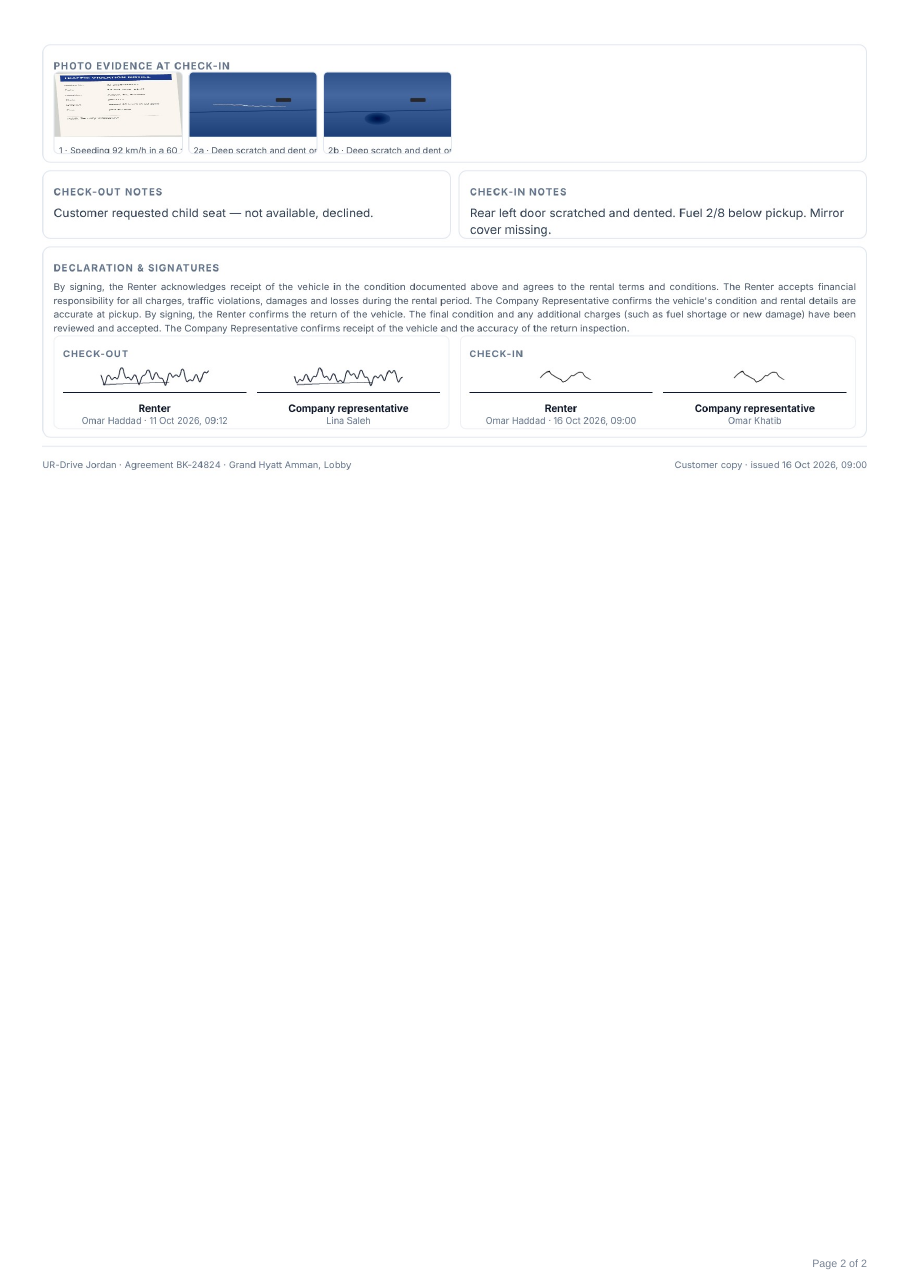
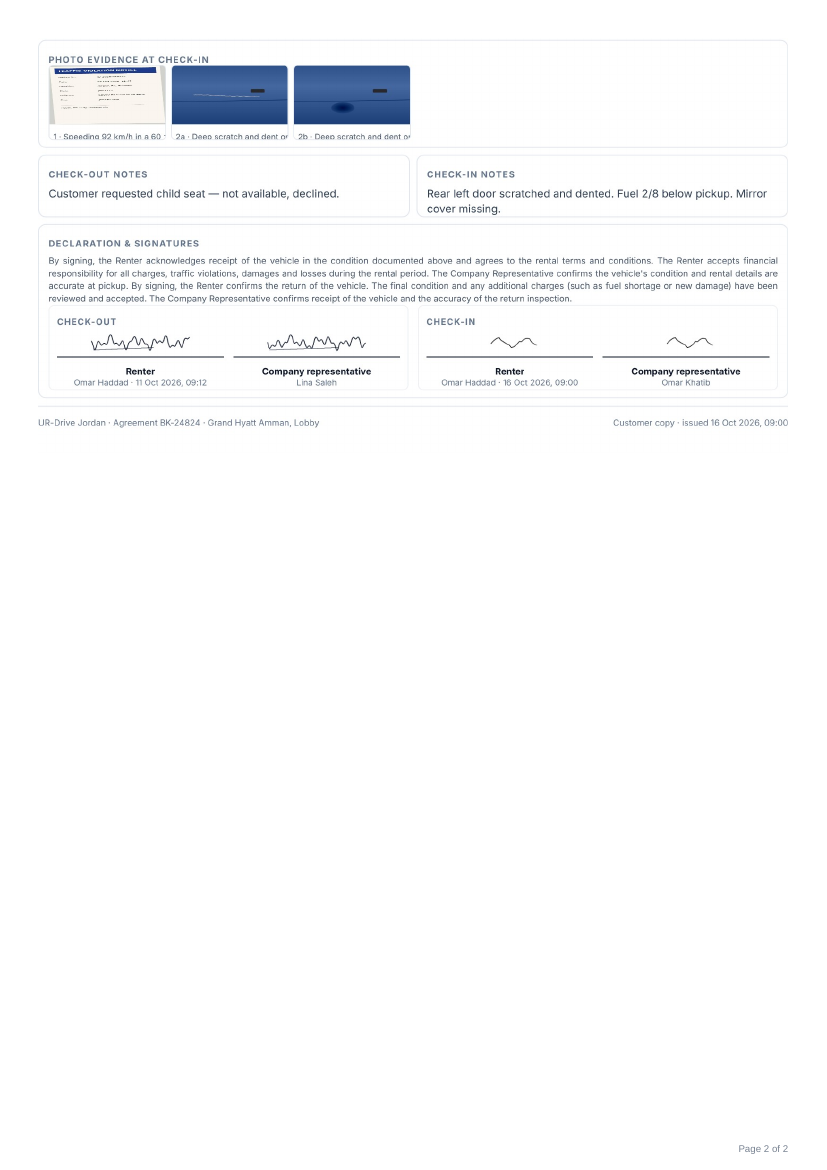
Send a rental termination statement when the car is returned
- New services/terminationDoc.ts: "Rental Termination — agreement closure
  statement" (TRM-<booking>). Confirms the agreement ended at the return time
  and place, with pick-up/return/days/distance, the final statement of account
  (rental, extras, extensions, late fee, payment), charges at return and their
  settlement, vehicle condition at return, the security deposit position,
  what is still payable (or "Nothing further is due"), a note on traffic fines
  from the rental period, and the check-in signatures. Stamped TERMINATED and
  SETTLED or BALANCE DUE.
- The check-in email ("Rental agreement closed") now attaches the final
  agreement, the termination statement and, if any, the claim or invoice.
  The success screen and closed agreements offer a Termination download.
- Pick-up agreement fits on one page: compact check-out condition grid,
  notes beside the charges, and an "At return" panel instead of empty
  check-in signature lines.

Claude-Session: https://claude.ai/code/session_01SZbkRoLvbcfyYadGhzb7Rr

diff --git a/services/terminationDoc.ts b/services/terminationDoc.ts
@@ -1,0 +1,186 @@
+import { CompanyDetails, Reservation } from '../types';
+import { CHARGE_KIND_LABEL, PAYMENT_METHOD_LABEL, chargesTotal, formatMoney } from './returnChargesDoc';
+
+export interface TerminationDocInput {
+  reservation: Reservation;
+  company: CompanyDetails;
+  logo?: string;
+  rentalDays: number;
+  baseRentalFee: number;
+  checklistItems: string[];
+  locationName?: string;
+  prepaid?: boolean;
+}
+
+const esc = (v: unknown) => String(v ?? '').replace(/&/g, '&amp;').replace(/</g, '&lt;').replace(/>/g, '&gt;').replace(/"/g, '&quot;');
+const usd = (n: number) => esc(formatMoney(n, 'USD'));
+// Check-in/out times are stored as display strings such as "October 16, 2026 at 09:00 AM".
+const parse = (s?: string) => { if (!s) return null; const d = new Date(s.replace(' at ', ' ')); return Number.isNaN(d.getTime()) ? null : d; };
+const when = (d: Date | null) => (d ? d.toLocaleString('en-GB', { day: '2-digit', month: 'short', year: 'numeric', hour: '2-digit', minute: '2-digit' }) : '—');
+const day = (d: Date | null) => (d ? d.toLocaleDateString('en-GB', { day: '2-digit', month: 'short', year: 'numeric' }) : '—');
+
+export const terminationNumber = (bookingId: string) => `TRM-${(bookingId || 'X').replace(/[^A-Za-z0-9]/g, '').toUpperCase()}`;
+export const terminationFileName = (bookingId: string) => `Rental-Termination-${(bookingId || 'X').replace(/[^A-Za-z0-9-]/g, '')}.pdf`;
+
+/**
+ * Rental termination statement: the customer's confirmation that the agreement has ended,
+ * with the final statement of account, the security deposit position and anything still due.
+ */
+export function buildTerminationHtml(i: TerminationDocInput): string {
+  const r = i.reservation;
+  const returnedAt = parse(r.dropOffDateTime) || parse(r.agreementEmails?.find(e => e.kind === 'checkin')?.sentAt) || new Date();
+  const pickedUpAt = parse(r.pickupDateTime) || parse(r.startDate);
+  const dueAt = parse(r.endDate);
+  const lateHours = dueAt ? (returnedAt.getTime() - dueAt.getTime()) / 3600000 : 0;
+  const kmDriven = r.dropOffKmIn != null && r.pickupKmOut != null && r.dropOffKmIn >= r.pickupKmOut ? r.dropOffKmIn - r.pickupKmOut : null;
+  const fuelDiff = r.dropOffFuelLevel != null && r.pickupFuelLevel != null ? r.dropOffFuelLevel - r.pickupFuelLevel : null;
+  const missing = i.checklistItems.filter(x => r.pickupChecklist?.[x] && !r.dropOffChecklist?.[x]);
+  const newDamage = (r.dropOffDamageMarkers || []).length;
+
+  const extras = (r.extras || []).map(e => ({ label: e.name, amount: e.isComplementary ? 0 : e.dailyPrice * i.rentalDays, free: e.isComplementary }));
+  const extensions = r.extensionHistory || [];
+  const late = r.lateReturnFee && !r.lateReturnFee.isWaived && r.lateReturnFee.status !== 'WAIVED' ? r.lateReturnFee : undefined;
+  const rentalTotal = i.baseRentalFee + extras.reduce((s, e) => s + e.amount, 0) + (late && late.status === 'APPLIED' ? late.amount : 0);
+  const rentalDue = (r.unpaidExtensionAmount || 0) + (late && late.status === 'PENDING' ? late.amount : 0);
+  const rc = r.returnCharges && r.returnCharges.items.length ? r.returnCharges : undefined;
+  const rcTotal = rc ? chargesTotal(rc.items) : 0;
+  const rcDue = rc && rc.settlement === 'claim' ? rcTotal : 0;
+  const settled = rentalDue <= 0 && rcDue <= 0;
+  const deposit = r.securityDeposit || 0;
+  const depositLine = deposit <= 0
+    ? 'No security deposit was held for this rental.'
+    : rcDue > 0
+      ? `The security deposit of ${usd(deposit)} is held until claim ${esc(rc!.documentNumber || '')} is settled.`
+      : rc && rc.paymentMethod === 'deposit'
+        ? `Return charges were deducted from the security deposit of ${usd(deposit)}; any remaining balance is released.`
+        : `The security deposit of ${usd(deposit)} is released in full.`;
+
+  const row = (label: string, value: string, cls = '') => `<tr class="${cls}"><td>${label}</td><td class="num">${value}</td></tr>`;
+
+  return `<!DOCTYPE html><html><head><meta charset="utf-8"><title>Rental Termination ${esc(r.bookingId)}</title>
+<style>
+  @page { size: A4; margin: 12mm; }
+  * { box-sizing: border-box; margin: 0; padding: 0; }
+  body { font-family: 'Segoe UI', Inter, Arial, sans-serif; color: #0f172a; font-size: 9pt; line-height: 1.45; padding: 4px; }
+  .accent { height: 4px; background: linear-gradient(90deg, #0f172a, #334155 60%, #f97316); border-radius: 3px; margin-bottom: 14px; }
+  .top { display: flex; justify-content: space-between; align-items: flex-start; gap: 20px; }
+  .top img { height: 28px; }
+  .co { font-size: 7.6pt; color: #475569; margin-top: 4px; line-height: 1.45; }
+  .doc { text-align: right; }
+  .doc h1 { font-size: 19pt; letter-spacing: -0.02em; line-height: 1.05; }
+  .doc .sub { font-size: 7.5pt; text-transform: uppercase; letter-spacing: .14em; color: #64748b; margin-top: 3px; }
+  .doc .no { margin-top: 6px; font-size: 8.5pt; } .doc .no b { font-family: Consolas, monospace; }
+  .stamps { margin-top: 7px; display: flex; gap: 6px; justify-content: flex-end; }
+  .stamp { display: inline-block; padding: 3px 10px; border-radius: 6px; font-size: 8pt; font-weight: 800; letter-spacing: .12em; border: 2px solid; }
+  .stamp.term { color: #0f172a; border-color: #0f172a; }
+  .stamp.ok { color: #047857; border-color: #047857; background: #ecfdf5; }
+  .stamp.due { color: #b45309; border-color: #b45309; background: #fffbeb; }
+  .lead { margin-top: 16px; padding: 12px 14px; border-radius: 10px; background: #f8fafc; border: 1px solid #e2e8f0; font-size: 9.6pt; line-height: 1.6; }
+  .lead b { color: #0f172a; }
+  .facts { display: grid; grid-template-columns: repeat(4, 1fr); gap: 0; margin-top: 10px; border: 1px solid #e2e8f0; border-radius: 10px; overflow: hidden; }
+  .facts div { padding: 8px 11px; border-right: 1px solid #e2e8f0; }
+  .facts div:last-child { border-right: 0; }
+  .facts span { display: block; font-size: 6.8pt; text-transform: uppercase; letter-spacing: .1em; color: #64748b; font-weight: 700; }
+  .facts b { font-size: 9.5pt; }
+  .g2 { display: grid; grid-template-columns: 1.15fr 1fr; gap: 10px; margin-top: 10px; align-items: start; }
+  .card { border: 1px solid #e2e8f0; border-radius: 10px; padding: 9px 12px; }
+  h2 { font-size: 7.2pt; text-transform: uppercase; letter-spacing: .1em; color: #64748b; margin-bottom: 6px; font-weight: 700; }
+  table { width: 100%; border-collapse: separate; border-spacing: 0; }
+  td { padding: 4px 0; border-bottom: 1px solid #f1f5f9; vertical-align: top; }
+  td.num { text-align: right; white-space: nowrap; font-variant-numeric: tabular-nums; font-weight: 600; padding-left: 10px; }
+  tr.sub td { color: #64748b; font-size: 8pt; }
+  tr.tot td { border-top: 1.5px solid #0f172a; border-bottom: 0; font-weight: 800; font-size: 10pt; padding-top: 6px; }
+  tr.due td { color: #b45309; font-weight: 700; }
+  tr.ok td { color: #047857; font-weight: 700; }
+  .kv { display: flex; justify-content: space-between; gap: 10px; padding: 3px 0; border-bottom: 1px solid #f1f5f9; }
+  .kv:last-child { border-bottom: 0; }
+  .kv span:first-child { color: #64748b; } .kv span:last-child { font-weight: 600; text-align: right; }
+  .bad { color: #b91c1c !important; } .good { color: #047857 !important; }
+  .balance { margin-top: 10px; display: flex; align-items: center; justify-content: space-between; gap: 16px; padding: 12px 16px; border-radius: 10px; color: #fff; background: ${settled ? '#065f46' : '#92400e'}; }
+  .balance .l { font-size: 7.2pt; text-transform: uppercase; letter-spacing: .12em; opacity: .8; }
+  .balance .t { font-size: 11pt; font-weight: 700; margin-top: 2px; }
+  .balance .v { font-size: 17pt; font-weight: 800; text-align: right; white-space: nowrap; }
+  .notes { margin-top: 10px; display: grid; grid-template-columns: 1fr 1fr; gap: 10px; }
+  .notes p { font-size: 8pt; color: #334155; }
+  .sig { display: grid; grid-template-columns: 1fr 1fr; gap: 40px; margin-top: 12px; }
+  .si { height: 40px; display: flex; align-items: flex-end; }
+  .si img { max-height: 40px; max-width: 70%; }
+  .sl { border-top: 1px solid #0f172a; padding-top: 3px; font-size: 7.8pt; font-weight: 700; }
+  .sm { font-size: 7pt; color: #64748b; }
+  .foot { margin-top: 14px; padding-top: 6px; border-top: 1px solid #e2e8f0; display: flex; justify-content: space-between; font-size: 7pt; color: #64748b; }
+</style></head><body>
+  <div class="accent"></div>
+  <div class="top">
+    <div>${i.logo ? `<img src="${i.logo}" alt="">` : `<b style="font-size:13pt">${esc(i.company.name)}</b>`}
+      <div class="co"><b style="color:#0f172a">${esc(i.company.name)}</b>${i.company.subName ? ' · ' + esc(i.company.subName) : ''}<br>${esc(i.company.address)}<br>Tel ${esc(i.company.phone)} · ${esc(i.company.email)}${i.company.taxNumber ? ' · Tax No. ' + esc(i.company.taxNumber) : ''}</div>
+    </div>
+    <div class="doc">
+      <h1>Rental Termination</h1>
+      <div class="sub">Agreement closure statement</div>
+      <div class="no">No. <b>${esc(terminationNumber(r.bookingId))}</b> · Agreement <b>${esc(r.bookingId)}</b></div>
+      <div class="stamps"><span class="stamp term">TERMINATED</span><span class="stamp ${settled ? 'ok' : 'due'}">${settled ? 'SETTLED' : 'BALANCE DUE'}</span></div>
+    </div>
+  </div>
+
+  <div class="lead">This statement confirms that rental agreement <b>${esc(r.bookingId)}</b> between <b>${esc(i.company.name)}</b> and <b>${esc(r.personName)}</b>
+    for the <b>${esc(r.carModel || 'vehicle')}</b>${r.licensePlate ? `, plate <b>${esc(r.licensePlate)}</b>` : ''}, was <b>terminated on ${when(returnedAt)}</b>
+    ${i.locationName || r.locationName ? `at ${esc(i.locationName || r.locationName)}` : ''} when the vehicle and its keys were returned and inspected.
+    ${settled ? 'All amounts under the agreement have been settled.' : 'The amounts shown as due below remain payable.'}</div>
+
+  <div class="facts">
+    <div><span>Picked up</span><b>${when(pickedUpAt)}</b></div>
+    <div><span>Returned</span><b>${when(returnedAt)}</b></div>
+    <div><span>Rental days</span><b>${i.rentalDays}${lateHours > 2 ? ` <small class="bad">· ${lateHours.toFixed(1)} h late</small>` : ''}</b></div>
+    <div><span>Distance</span><b>${kmDriven != null ? kmDriven.toLocaleString('en-US') + ' km' : '—'}</b></div>
+  </div>
+
+  <div class="g2">
+    <div class="card"><h2>Final statement of account</h2>
+      <table>
+        ${row(`Rental · ${i.rentalDays} day${i.rentalDays === 1 ? '' : 's'}`, usd(i.baseRentalFee))}
+        ${extras.map(e => row(esc(e.label), e.free ? 'Included' : usd(e.amount))).join('')}
+        ${extensions.map(x => row(`Extension · +${x.days} day${x.days === 1 ? '' : 's'} (${x.paymentMethod === 'payNow' ? 'paid' : 'pay on return'})`, 'incl.', 'sub')).join('')}
+        ${late ? row(`Late return · ${late.hoursLate} h${late.status === 'PENDING' ? ' (pending)' : ''}`, usd(late.amount)) : ''}
+        ${row('Rental total', usd(rentalTotal), 'tot')}
+        ${row(i.prepaid ? `Prepaid via ${esc(r.source || 'partner')}` : r.authNumber ? `Paid${r.authNumber ? ` · auth ${esc(r.authNumber)}` : ''}` : 'Paid at the counter', i.prepaid || r.authNumber ? '✓' : '—', 'sub')}
+        ${rentalDue > 0 ? row('Rental balance still due', usd(rentalDue), 'due') : row('Rental balance', usd(0), 'ok')}
+      </table>
+      ${rc ? `<h2 style="margin-top:10px">Charges at return · ${esc(rc.documentNumber || '')}</h2>
+      <table>
+        ${rc.items.map(it => row(`${esc(CHARGE_KIND_LABEL[it.kind])} — ${esc(it.description)}`, esc(formatMoney(it.amount, rc.currency)))).join('')}
+        ${row('Charges total', esc(formatMoney(rcTotal, rc.currency)), 'tot')}
+        ${rc.settlement === 'paid'
+          ? row(`Paid${rc.paymentMethod ? ' by ' + esc(PAYMENT_METHOD_LABEL[rc.paymentMethod].toLowerCase()) : ''}${rc.paymentReference ? ` · ${esc(rc.paymentReference)}` : ''}`, esc(formatMoney(0, rc.currency)), 'ok')
+          : row(`Due${rc.dueDate ? ' by ' + day(new Date(rc.dueDate + 'T12:00:00')) : ''} — claim ${esc(rc.documentNumber || '')}`, esc(formatMoney(rcTotal, rc.currency)), 'due')}
+      </table>` : ''}
+    </div>
+    <div>
+      <div class="card"><h2>Vehicle at return</h2>
+        <div class="kv"><span>Odometer</span><span>${r.pickupKmOut != null ? r.pickupKmOut.toLocaleString('en-US') : '—'} → ${r.dropOffKmIn != null ? r.dropOffKmIn.toLocaleString('en-US') : '—'} km</span></div>
+        <div class="kv"><span>Fuel</span><span class="${fuelDiff != null && fuelDiff < 0 ? 'bad' : ''}">${r.pickupFuelLevel ?? '—'}/8 → ${r.dropOffFuelLevel ?? '—'}/8${fuelDiff != null && fuelDiff < 0 ? ` (${fuelDiff}/8)` : ''}</span></div>
+        <div class="kv"><span>New damage</span><span class="${newDamage ? 'bad' : 'good'}">${newDamage ? `${newDamage} mark${newDamage === 1 ? '' : 's'}` : 'None'}</span></div>
+        <div class="kv"><span>Equipment</span><span class="${missing.length ? 'bad' : 'good'}">${missing.length ? `Missing: ${esc(missing.join(', '))}` : 'All present'}</span></div>
+        <div class="kv"><span>Received by</span><span>${esc(r.dropOffAgentName || '—')}</span></div>
+      </div>
+      <div class="card" style="margin-top:10px"><h2>Security deposit</h2><p style="font-size:8.5pt">${depositLine}</p></div>
+    </div>
+  </div>
+
+  <div class="balance">
+    <div><div class="l">${settled ? 'Account status' : 'Amount still payable'}</div><div class="t">${settled ? 'Nothing further is due under this agreement' : [rentalDue > 0 ? 'Rental balance' : '', rcDue > 0 ? `Claim ${rc!.documentNumber || ''}` : ''].filter(Boolean).join(' + ')}</div></div>
+    <div class="v">${settled ? usd(0) : [rentalDue > 0 ? usd(rentalDue) : '', rcDue > 0 ? esc(formatMoney(rcDue, rc!.currency)) : ''].filter(Boolean).join(' + ')}</div>
+  </div>
+
+  <div class="notes">
+    <div class="card"><h2>Please note</h2><p>Traffic violations, tolls and parking fines incurred between ${day(pickedUpAt)} and ${day(returnedAt)} remain the renter's responsibility, including any notified to us after this date. They will be passed on with the official notice.</p></div>
+    <div class="card"><h2>Questions</h2><p>Contact us on ${esc(i.company.phone)} or ${esc(i.company.email)} quoting ${esc(terminationNumber(r.bookingId))}. Please keep this statement together with your final rental agreement.</p></div>
+  </div>
+
+  <div class="sig avoid">
+    <div><div class="si">${r.dropOffRenterSignature ? `<img src="${esc(r.dropOffRenterSignature)}"/>` : ''}</div><div class="sl">${esc(r.personName)} — Renter</div><div class="sm">Signed at return · ${when(returnedAt)}</div></div>
+    <div><div class="si">${r.dropOffAgentSignature ? `<img src="${esc(r.dropOffAgentSignature)}"/>` : ''}</div><div class="sl">${esc(r.dropOffAgentName || 'Company representative')} — for ${esc(i.company.name)}</div><div class="sm">Vehicle received and agreement closed</div></div>
+  </div>
+
+  <div class="foot"><span>${esc(i.company.name)} · ${esc(terminationNumber(r.bookingId))}</span><span>Customer copy · issued ${new Date().toLocaleString('en-GB', { day: '2-digit', month: 'short', year: 'numeric', hour: '2-digit', minute: '2-digit' })}</span></div>
+</body></html>`;
+}

diff --git a/components/Voucher.tsx b/components/Voucher.tsx
@@ -8,6 +8,7 @@ import { sendCustomerEmail } from '../firebase/api';
 import { agreementHtmlToPdfBase64 } from '../services/agreementPdf';
 import ReturnChargesPanel from './ReturnChargesPanel';
 import { buildAgreementHtml as buildAgreementDoc } from '../services/agreementDoc';
+import { buildTerminationHtml, terminationFileName, terminationNumber } from '../services/terminationDoc';
 import { buildReturnChargesHtml, chargesDocumentNumber, chargesDocumentTitle, chargesFileName, chargesTotal, formatMoney, CHARGE_KIND_LABEL } from '../services/returnChargesDoc';
 
 interface VoucherProps {
@@ -470,6 +471,22 @@ const Voucher: React.FC<VoucherProps> = ({ reservation, sources, rentalLocations
     prepaid: sources.find(src => src.name === r.source)?.paymentType === PaymentType.PREPAID,
   });
 
+  const buildTermination = (r: Reservation = localReservation): string => buildTerminationHtml({
+    reservation: r,
+    company: companyDetails,
+    logo: URDRIVE_LOGO_B64,
+    rentalDays,
+    baseRentalFee,
+    checklistItems,
+    locationName: location?.name || r.locationName,
+    prepaid: sources.find(src => src.name === r.source)?.paymentType === PaymentType.PREPAID,
+  });
+
+  const handlePrintTermination = () => {
+    const w = window.open('', '_blank', 'width=900,height=1000');
+    if (w) { w.document.write(buildTermination()); w.document.close(); w.focus(); setTimeout(() => w.print(), 300); }
+  };
+
   const handleDownloadVoucherPDF = () => {
     const html = buildAgreementHtml();
     const printWindow = window.open('', '_blank', 'width=900,height=1000');
@@ -547,6 +564,14 @@ const Voucher: React.FC<VoucherProps> = ({ reservation, sources, rentalLocations
       attachment = { fileName: `Rental-Agreement-${r.bookingId}.html`, contentType: 'text/html', base64: btoa(unescape(encodeURIComponent(html))) };
     }
     const attachments = [attachment];
+    if (kind === 'checkin') {
+      const termHtml = buildTermination(r);
+      try {
+        attachments.push({ fileName: terminationFileName(r.bookingId), contentType: 'application/pdf', base64: await agreementHtmlToPdfBase64(termHtml) });
+      } catch {
+        attachments.push({ fileName: terminationFileName(r.bookingId).replace(/\.pdf$/, '.html'), contentType: 'text/html', base64: btoa(unescape(encodeURIComponent(termHtml))) });
+      }
+    }
     const rc = kind === 'checkin' && r.returnCharges && r.returnCharges.items.length > 0 ? r.returnCharges : undefined;
     if (rc) {
       const chargesHtml = buildReturnChargesHtml(r, rc, companyDetails, URDRIVE_LOGO_B64);
@@ -561,13 +586,13 @@ const Voucher: React.FC<VoucherProps> = ({ reservation, sources, rentalLocations
     const isCheckout = kind === 'checkout';
     const outcome = await sendCustomerEmail({
       to,
-      subject: `${isCheckout ? 'Your rental agreement' : 'Vehicle return confirmation'} · Booking ${r.bookingId}`,
+      subject: `${isCheckout ? 'Your rental agreement' : 'Rental agreement closed'} · Booking ${r.bookingId}`,
       heading: isCheckout ? 'Your rental agreement' : 'Thank you — your vehicle has been returned',
       intro: `Dear ${r.personName}, ${isCheckout
         ? `thank you for choosing ${companyDetails.name}. Your signed rental agreement is attached to this email. Please keep it with you for the duration of the rental.`
         : rc
-          ? `we have checked in your vehicle. Attached are the final signed agreement and ${rc.settlement === 'paid' ? `your paid invoice ${rc.documentNumber}` : `claim ${rc.documentNumber} for the charges found at return`}, including photos.`
-          : `we have checked in your vehicle. The final signed agreement, including the return inspection, is attached for your records.`}`,
+          ? `we have checked in your vehicle and your rental agreement is now closed. Attached are your final signed agreement, the rental termination statement ${terminationNumber(r.bookingId)} and ${rc.settlement === 'paid' ? `your paid invoice ${rc.documentNumber}` : `claim ${rc.documentNumber} for the charges found at return`}, including photos.`
+          : `we have checked in your vehicle and your rental agreement is now closed. Attached are your final signed agreement with the return inspection and the rental termination statement ${terminationNumber(r.bookingId)} confirming that nothing further is due.`}`,
       rows: [
         ['Booking', r.bookingId],
         ['Vehicle', `${r.carModel || '—'}${r.licensePlate ? ` · ${r.licensePlate}` : ''}`],
@@ -590,7 +615,7 @@ const Voucher: React.FC<VoucherProps> = ({ reservation, sources, rentalLocations
       companyEmail: companyDetails.email,
       replyTo: companyDetails.email,
       attachments,
-      badge: isCheckout ? 'RENTAL AGREEMENT' : rc ? (rc.settlement === 'paid' ? 'PAID' : 'PAYMENT DUE') : 'VEHICLE RETURNED',
+      badge: isCheckout ? 'RENTAL AGREEMENT' : rc ? (rc.settlement === 'paid' ? 'PAID' : 'PAYMENT DUE') : 'AGREEMENT CLOSED',
       tone: rc ? (rc.settlement === 'paid' ? 'success' : 'warning') : isCheckout ? 'info' : 'success',
       highlightLabel: rc ? (rc.settlement === 'paid' ? `Invoice ${rc.documentNumber} · paid` : `Claim ${rc.documentNumber} · amount due`) : isCheckout ? 'Rental total' : undefined,
       highlightValue: rc ? formatMoney(chargesTotal(rc.items), rc.currency) : isCheckout ? formatCurrency(r.amount || 0) : undefined,
@@ -1137,9 +1162,16 @@ const Voucher: React.FC<VoucherProps> = ({ reservation, sources, rentalLocations
                   {processType === 'exchange' && viewMode === 'dropoff' ? 'Complete exchange' : viewMode === 'pickup' ? 'Complete check-out' : 'Complete check-in'}
                 </button>
               ) : (
-                <button onClick={handleDownloadVoucherPDF} className="inline-flex items-center gap-2 px-4 py-2.5 text-sm font-semibold bg-slate-900 text-white rounded-xl hover:bg-slate-800">
-                  <PdfIcon className="w-4 h-4" /> Print agreement
-                </button>
+                <div className="flex items-center gap-2">
+                  {localReservation.dropOffCompleted && (
+                    <button onClick={handlePrintTermination} className="inline-flex items-center gap-2 px-4 py-2.5 text-sm font-semibold bg-white ring-1 ring-slate-200 text-slate-700 rounded-xl hover:bg-slate-50">
+                      <PdfIcon className="w-4 h-4" /> Termination
+                    </button>
+                  )}
+                  <button onClick={handleDownloadVoucherPDF} className="inline-flex items-center gap-2 px-4 py-2.5 text-sm font-semibold bg-slate-900 text-white rounded-xl hover:bg-slate-800">
+                    <PdfIcon className="w-4 h-4" /> Print agreement
+                  </button>
+                </div>
               )}
             </div>
           </div>
@@ -1161,6 +1193,12 @@ const Voucher: React.FC<VoucherProps> = ({ reservation, sources, rentalLocations
                 <span className="w-10 h-10 rounded-xl bg-emerald-600 text-white flex items-center justify-center"><PdfIcon className="w-5 h-5" /></span>
                 <span><span className="block text-sm font-semibold text-slate-900">Payment receipt</span><span className="block text-xs text-slate-500">Download PDF</span></span>
               </button>
+              {localReservation.dropOffCompleted && (
+                <button onClick={handlePrintTermination} className="sm:col-span-2 flex items-center gap-3 p-4 rounded-2xl border border-slate-200 hover:border-slate-300 hover:bg-slate-50 text-left">
+                  <span className="w-10 h-10 rounded-xl bg-slate-700 text-white flex items-center justify-center"><PdfIcon className="w-5 h-5" /></span>
+                  <span><span className="block text-sm font-semibold text-slate-900">Rental termination {terminationNumber(localReservation.bookingId)}</span><span className="block text-xs text-slate-500">Closure statement and final account</span></span>
+                </button>
+              )}
               {localReservation.dropOffCompleted && localReservation.returnCharges && localReservation.returnCharges.items.length > 0 && (
                 <button onClick={handleDownloadChargesPDF} className={`sm:col-span-2 flex items-center gap-3 p-4 rounded-2xl border text-left ${localReservation.returnCharges.settlement === 'paid' ? 'border-emerald-200 bg-emerald-50/50 hover:bg-emerald-50' : 'border-amber-200 bg-amber-50/50 hover:bg-amber-50'}`}>
                   <span className={`w-10 h-10 rounded-xl text-white flex items-center justify-center ${localReservation.returnCharges.settlement === 'paid' ? 'bg-emerald-600' : 'bg-amber-500'}`}><PdfIcon className="w-5 h-5" /></span>
@@ -1185,14 +1223,14 @@ const Voucher: React.FC<VoucherProps> = ({ reservation, sources, rentalLocations
                 <span className="flex-1 min-w-0">
                   <span className="block text-sm font-semibold text-slate-900">
                     {emailState.status === 'sending' ? 'Emailing the agreement…' :
-                     emailState.status === 'sent' ? (localReservation.dropOffCompleted && localReservation.returnCharges?.items.length ? `Agreement & ${localReservation.returnCharges.settlement === 'paid' ? 'invoice' : 'claim'} emailed` : 'Agreement emailed') :
+                     emailState.status === 'sent' ? (localReservation.dropOffCompleted ? 'Closing documents emailed' : 'Agreement emailed') :
                      emailState.status === 'failed' ? 'Email not sent' :
                      emailState.status === 'unconfigured' ? 'Email is not set up' : 'Email the agreement'}
                   </span>
                   <span className="block text-xs text-slate-500 truncate">
                     {emailState.status === 'unconfigured' ? 'Ask an administrator to configure outgoing email on the server.' :
                      emailState.status === 'failed' ? (emailState.message || 'Please try again.') :
-                     `${localReservation.dropOffCompleted && localReservation.returnCharges?.items.length ? `Agreement + ${localReservation.returnCharges.settlement === 'paid' ? 'invoice' : 'claim'}` : 'PDF'} to ${localReservation.customerEmail}`}
+                     `${localReservation.dropOffCompleted ? `Agreement + termination${localReservation.returnCharges?.items.length ? ` + ${localReservation.returnCharges.settlement === 'paid' ? 'invoice' : 'claim'}` : ''}` : 'Agreement PDF'} to ${localReservation.customerEmail}`}
                   </span>
                 </span>
                 {(emailState.status === 'failed' || emailState.status === 'idle' || emailState.status === 'unconfigured') && (

diff --git a/services/agreementDoc.ts b/services/agreementDoc.ts
@@ -108,6 +108,9 @@ export function buildAgreementHtml(i: AgreementDocInput): string {
   td, th { padding: 3px 4px; border-bottom: 1px solid #f1f5f9; text-align: left; vertical-align: middle; }
   th { font-size: 6.8pt; text-transform: uppercase; letter-spacing: .07em; color: #64748b; font-weight: 700; }
   .cmp th { background: #f8fafc; }
+  .cgrid { display: grid; grid-template-columns: repeat(3, 1fr); gap: 6px 14px; }
+  .cgrid > div > span { display: block; font-size: 6.8pt; color: #64748b; text-transform: uppercase; letter-spacing: .08em; }
+  .cgrid b { font-size: 9pt; }
   .cmp td:first-child { color: #64748b; width: 23%; }
   .num { text-align: right; font-variant-numeric: tabular-nums; white-space: nowrap; }
   .ctr { text-align: center; }
@@ -134,6 +137,7 @@ export function buildAgreementHtml(i: AgreementDocInput): string {
   .sgrp { border: 1px solid #eef2f6; border-radius: 6px; padding: 5px 8px 6px; }
   .sgrp h3 { font-size: 6.8pt; text-transform: uppercase; letter-spacing: .1em; color: #64748b; margin-bottom: 2px; }
   .sgrp .row { display: grid; grid-template-columns: 1fr 1fr; gap: 10px; }
+  .sgrp.next p { font-size: 7.4pt; color: #475569; margin-top: 3px; } .sgrp.next .due { color: #0f172a; }
   .si { height: 34px; display: flex; align-items: flex-end; justify-content: center; }
   .si img { max-height: 34px; max-width: 100%; }
   .sl { border-top: 1px solid #0f172a; padding-top: 2px; font-size: 7.2pt; font-weight: 700; text-align: center; }
@@ -177,7 +181,7 @@ export function buildAgreementHtml(i: AgreementDocInput): string {
       ${(r.extensionHistory || []).length ? `<div class="kv"><span>Extended</span><span>+${r.extensionHistory!.reduce((s, e) => s + e.days, 0)} days</span></div>` : ''}</div>
   </div>
 
-  <div class="card" style="margin-top:7px"><h2>${closed ? 'Check-out vs check-in' : 'Condition at check-out'}</h2>
+  ${closed ? `<div class="card" style="margin-top:7px"><h2>Check-out vs check-in</h2>
     <table class="cmp">
       <tr><th></th><th>Check-out</th>${closed ? '<th>Check-in</th><th class="num">Difference</th>' : ''}</tr>
       <tr><td>Date & time</td><td>${r.pickupDateTime ? when(r.pickupDateTime) : when(r.startDate)}</td>${closed ? `<td>${returnedAt ? when(returnedAt.toISOString()) : '—'}</td><td class="num ${lateHours > 2 ? 'diff-bad' : ''}">${lateHours > 2 ? `${lateHours.toFixed(1)} h late` : 'On time'}</td>` : ''}</tr>
@@ -187,7 +191,16 @@ export function buildAgreementHtml(i: AgreementDocInput): string {
       <tr><td>Damage marks</td><td>${pickupMarks.length} existing</td>${closed ? `<td>${returnMarks.length} new</td><td class="num ${returnMarks.length ? 'diff-bad' : 'diff-ok'}">${returnMarks.length ? `${returnMarks.length} new` : 'No new damage'}</td>` : ''}</tr>
       <tr><td>Staff</td><td>${esc(r.pickupAgentName || '—')}</td>${closed ? `<td>${esc(r.dropOffAgentName || '—')}</td><td></td>` : ''}</tr>
     </table>
-  </div>
+  </div>` : `<div class="card" style="margin-top:7px"><h2>Condition at check-out</h2>
+    <div class="cgrid">
+      <div><span>Date & time</span><b>${r.pickupDateTime ? when(r.pickupDateTime) : when(r.startDate)}</b></div>
+      <div><span>Odometer</span><b>${km(r.pickupKmOut)}</b></div>
+      <div><span>Fuel</span><b>${fuel(r.pickupFuelLevel, '#0284c7')}</b></div>
+      <div><span>Checklist</span><b>${okOut} of ${i.checklistItems.length} items OK</b></div>
+      <div><span>Existing damage</span><b>${pickupMarks.length} mark${pickupMarks.length === 1 ? '' : 's'}</b></div>
+      <div><span>Handed over by</span><b>${esc(r.pickupAgentName || '—')}</b></div>
+    </div>
+  </div>`}
 
   <div class="g2w">
     <div class="card"><h2>Vehicle condition</h2>
@@ -202,7 +215,7 @@ export function buildAgreementHtml(i: AgreementDocInput): string {
     </div>
   </div>
 
-  <div class="${rc ? 'g2' : ''}" style="${rc ? '' : 'margin-top:7px'}">
+  <div class="${rc || (!closed && r.pickupNotes) ? 'g2' : ''}" style="${rc || (!closed && r.pickupNotes) ? '' : 'margin-top:7px'}">
     <div class="card"><h2>Rental charges</h2>
       <table>
         <tr><td>Rental · ${i.rentalDays} day${i.rentalDays === 1 ? '' : 's'}</td><td class="num">${usd(i.baseRentalFee)}</td></tr>
@@ -211,6 +224,7 @@ export function buildAgreementHtml(i: AgreementDocInput): string {
       </table>
       <div class="settle info">${paymentLine}${r.unpaidExtensionAmount ? ` · ${usd(r.unpaidExtensionAmount)} extension due` : ''}</div>
     </div>
+    ${!closed && r.pickupNotes ? `<div class="card"><h2>Check-out notes</h2><div class="notes">${esc(r.pickupNotes)}</div></div>` : ''}
     ${rc ? `<div class="card"><h2>Charges at check-in · ${esc(rc.documentNumber || '')}</h2>
       <table>
         ${rc.items.map(it => `<tr><td>${esc(CHARGE_KIND_LABEL[it.kind])} — ${esc(it.description)}</td><td class="num">${esc(formatMoney(it.amount, rc.currency))}</td></tr>`).join('')}
@@ -224,7 +238,7 @@ export function buildAgreementHtml(i: AgreementDocInput): string {
 
   ${photos.length ? `<div class="card" style="margin-top:7px"><h2>Photo evidence at check-in</h2><div class="photos">${photos.map(p => `<figure><img src="${esc(p.src)}"/><figcaption>${esc(p.cap)}</figcaption></figure>`).join('')}</div></div>` : ''}
 
-  ${r.pickupNotes || r.dropOffNotes ? `<div class="g2">
+  ${closed && (r.pickupNotes || r.dropOffNotes) ? `<div class="g2">
     <div class="card"><h2>Check-out notes</h2><div class="notes">${esc(r.pickupNotes || '—')}</div></div>
     <div class="card"><h2>Check-in notes</h2><div class="notes">${esc(r.dropOffNotes || '—')}</div></div>
   </div>` : ''}
@@ -236,10 +250,10 @@ export function buildAgreementHtml(i: AgreementDocInput): string {
         ${sig(r.pickupRenterSignature, 'Renter', r.personName, r.pickupDateTime ? when(r.pickupDateTime) : undefined)}
         ${sig(r.pickupAgentSignature, 'Company representative', r.pickupAgentName)}
       </div></div>
-      <div class="sgrp"><h3>Check-in</h3><div class="row">
-        ${closed ? sig(r.dropOffRenterSignature, 'Renter', r.personName, returnedAt ? when(returnedAt.toISOString()) : undefined) : sig(undefined, 'Renter', 'at return')}
-        ${closed ? sig(r.dropOffAgentSignature, 'Company representative', r.dropOffAgentName) : sig(undefined, 'Company representative', 'at return')}
-      </div></div>
+      ${closed ? `<div class="sgrp"><h3>Check-in</h3><div class="row">
+        ${sig(r.dropOffRenterSignature, 'Renter', r.personName, returnedAt ? when(returnedAt.toISOString()) : undefined)}
+        ${sig(r.dropOffAgentSignature, 'Company representative', r.dropOffAgentName)}
+      </div></div>` : `<div class="sgrp next"><h3>At return</h3><p>When you bring the car back it is inspected with you and both of you sign the check-in. You then receive the final agreement and the rental termination statement by email.</p><p class="due">Please return by <b>${when(r.endDate)}</b>${i.locationName || r.locationName ? ` at ${esc(i.locationName || r.locationName)}` : ''}.</p></div>`}
     </div>
   </div>
 
